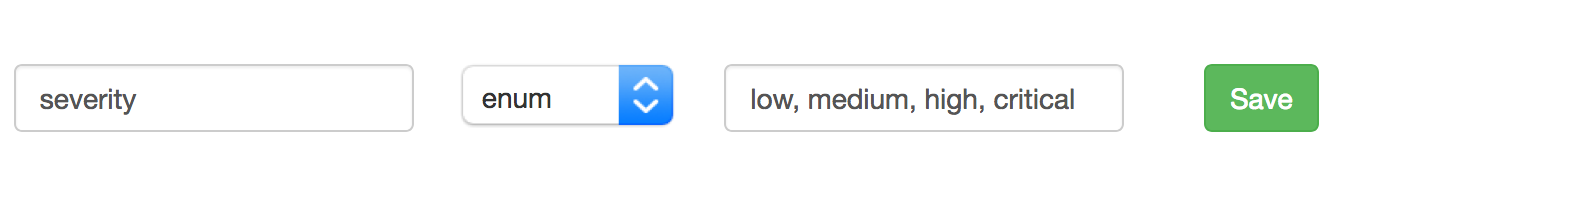
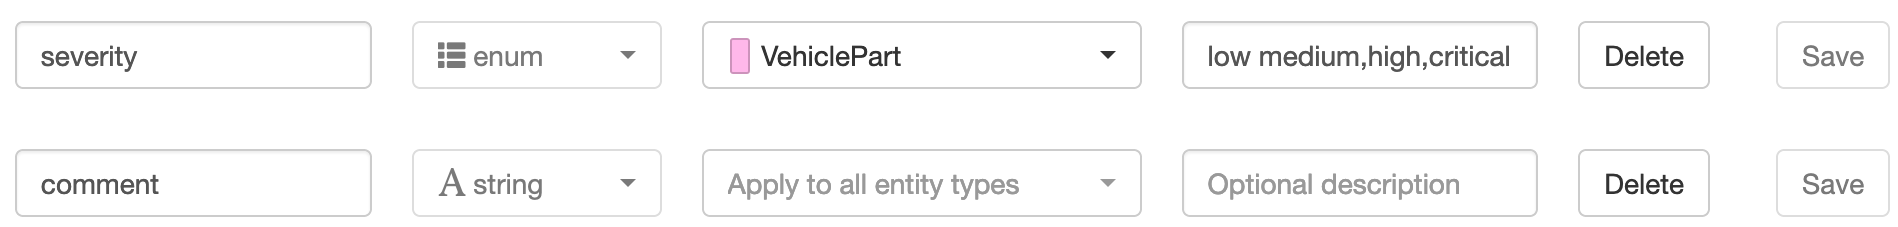
Add new doc for entity labels, info related to folders and update some pictures

diff --git a/_layouts/index.html b/_layouts/index.html
@@ -19,6 +19,7 @@ id: introduction
       <p>Use the text annotation editor to quickly annotate and normalize entities, relations and <a title="tagtog-docs: type of annotations" href="/webeditor.html#annotation-types">more</a>. If you just need to annotate at document level, you can use labels to tag documents. The <strong>user interface adapts automatically so you only see what you need</strong>. No more complex or non-intuitive annotating systems/interfaces, engage your domain experts from the very beginning.</p>
       <p>Too much work for a single person? <a href="#team-collaboration">Invite others and work in group</a>. Each annotator can annotate the same text to facilitate the review process. Once the annotations are completed, you can export them to JSON format.</p>
       {% include image.html name="annotation_editor.png" caption="Named Entity Recognition with tagtog annotation editor" %}
+      {% include image.html name="editor-mainview-described.jpg" caption="Editor layout. In this examples there are entities, entity labels, document labels, relations and normalizations" %}
       <p>Not fast enough? Use automatic annotations to speed up annotator tasks. Use trained models or customize your own. Users will see the automatic annotations and just make an action when predictions are wrong. Powered by <strong>NLP</strong> and <strong>active learning</strong> algorithms, tagtog uses the corrections to improve accuracy and <strong>continuously reduce the load of annotators' work</strong>.</p>
       <p>Do you need to deal with <strong>PDFs</strong>? {% include inline-image.html name="icon-pdf.png" width="30" %} Use the <a title="tagtog - PDF annotation tool" href="pdf-annotation-tool.html">PDF Annotation tool</a> to annotate native PDFs within tagtog.</p>
       {% include image.html name="pdf-annotation.jpg"  caption="Annotate PDF natively, as they are and the way your team is used to work with them " %}
@@ -146,7 +147,7 @@ id: introduction
           </tr>
           <tr>
             <td>Entity label</td>
-            <td>Label (boolean, string, enum) assigned to a named entity. Let's say you are extracting technical issues from reports in a CRM. When annotating those reports, you can add extra information to those entities (technical issues), for example, the severity for each of them.</td>
+            <td><p>Attribute (boolean, string, enum) assigned to a named entity. Let's say you are extracting technical issues from reports in a CRM. When annotating those reports, you can add extra information to those entities (technical issues), for example, the severity for each of them.</p><p>Entity labels can be used with specific entity groups (e.g. only can be set for technical issues) or to all entities (e.g. we can set comments for all entities)</p></td>
           </tr>
           <tr>
             <td>Relation</td>

diff --git a/webeditor.md b/webeditor.md
@@ -13,7 +13,7 @@ toc: true
     <p>The annotation editor is used to <strong>manually annotate text</strong> or/and <strong>train a machine learning model to automatically annotate text</strong>. By enabling automatic annotations you can build <a href="/#what-can-you-achieve">awesome stuff</a> you didn't think of at first.</p>
     <p>This web editor includes features as automatic annotations, <a href="https://medium.com/@tagtog/overlapping-text-annotations-19d7ac5b247a" title="Medium - Overlapping text annotations, gain flexibility">overlapping text annotations</a> or support for full-text articles, that reduce significantly the time required to annotate text.</p>
 
-    {% include image.html name="editor-mainview-described.PNG" caption="tagtog annotation editor with text span annotations and document labels. The editor is mainly divided into: Document area, Toolbar and Sidebar. "%}
+    {% include image.html name="editor-mainview-described.jpg" caption="tagtog annotation editor with text span annotations, entity labels, normalizations and document labels. The editor is mainly divided into: Document area, Folders, Toolbar and Sidebar. "%}
   </div>
   <div class="one-third-col">
     {% include image.html name="robot.ann.svg" width=300 %}
@@ -335,12 +335,20 @@ toc: true
         There are hotkeys available: <kbd>[</kbd> for previous document, <kbd>]</kbd> for next document.
       </div>
     </div>
+    <div class="two-third-col">
+      <br/>
+      <h4>Page navigator</h4>
+      <p>If the document is paginated, the toolbar has a controller to navigate across the pages. For example, in PDF documents. <a title="PDF annotation tool" href="pdf-annotation-tool.html#document-navigation">More information</a>.</p>
+    </div>
+    <div class="one-third-col">
+    </div>
   </div>
   <div class="page-subsection">
     <div class="two-third-col">
       <br/>
       <h2>Sidebar</h2>
-      <p>The sidebar appearance changes depending on how you configured your project. It will only display those actionable items for those entity types used in the project.</p>
+      <p>The sidebar <strong>appearance changes depending on how you configured your project</strong>. It will only display those actionable items for those entity types, document labels or relations used in the project.</p>
+      <p>You can <strong>show/hide</strong> the sidebar by clicking on the arrow (V-shaped mark) {% include inline-image.html name="chevron.png" width="20" %} near the top of the sidebar.</p>
       <p>These are the components you can find in the sidebar:</p>
     </div>
     <div class="one-third-col">
@@ -408,6 +416,15 @@ toc: true
         If you click in a relation, the document area <strong>scroll to highlight the entities related</strong> in the text.
       </div>
       {% include image.html name="editor-relation-tally.PNG" width="230" %}
+    </div>
+  </div>
+  <div class="page-subsection">
+    <div class="two-third-col">
+      <br/>
+      <h2>Folders</h2>
+      <p>Folders can be accessed from the document pool or the web editor. You can find the folders panel of the left side of the editor. <a title="Folders - tagtog.net" href="documentpool.html#folders">More information about folders</a>.</p>
+    </div>
+    <div class="one-third-col">
     </div>
   </div>
 </div>

diff --git a/projects.md b/projects.md
@@ -75,7 +75,7 @@ id: projects
         <strong>Accessibility tip</strong>: use colors that are easy to distinguish. Keep in mind color blind users.
       </div>
       <div class="message">
-        The name for an Entity type should contain only letters, numbers, or underscores, and must start with a letter. Minimum length: 3 characters. Maximum length: 24 characters.
+        The name for an Entity type should contain only letters, numbers, or underscores, and must start with a letter. Minimum length: 2 characters. Maximum length: 24 characters.
       </div>
     </div>
     <div class="two-third-col">
@@ -186,8 +186,8 @@ id: projects
   <div class="page-subsection">
     <div class="two-third-col">
       <h4>Entity labels</h4>
-      <p>Labels used to add attributes to existing entities. You can add one or more entity labels to a specific entity.</p>
-      <p>To create a new Entity Label, click on the button <code>New Document Label</code>. Then, write a <code>name</code> for the label (required), <code>type</code> (required) and <code>description</code> (optional).</p>
+      <p>Labels used to add attributes to existing entities. It is usual some attributes make sense only to some entity types (e.g. gender for person, not for city), you can assign an entity label to one specific entity type or all entity types.</p>
+      <p>To create a new Entity Label, click on the button <code>New Document Label</code>. Then, write a <code>name</code> for the label (required), <code>type</code> (required), <code>entity type</code> you want to assign the label to (required), and a <code>description</code> (optional).</p>
       <p>You can create different types of Entity Labels:</p>
       <table style="width:100%">
         <tr>
@@ -213,8 +213,9 @@ id: projects
       {% include message.html message="The name for an Entity Label should contain only letters, numbers, or underscores, and must start with a letter. Minimum length: 3 characters. Maximum length: 24 characters." %}
     </div>
     <div class="two-third-col">
-      {% include image.html name="settings-entitylabel.PNG" caption="Setting an entity label with the <code>enum</code> type"%}
-      <p>Once saved, you can start using them on the web editor.</p>
+      {% include image.html name="settings-entitylabel.PNG" caption="Setting two entity labels. The first with the <code>enum</code> type can be only set for entities with the type <code>VehiclePart</code>. The second with the <code>string</code> type can be set for all entity types. "%}
+      <p><strong>By default, the new entity labels will be assigned to all entity types</strong>. Otherwise, you can choose or filter an entity type from the list of entity types.</p>
+      <p>Once saved, you can start using them on the web editor. When you add a label to an entity, <strong>remember that only those labels related to the entity type of the entity will show</strong>.</p>
       <p>Soon you will be able to generate entity labels automatically within tagtog.</p>
     </div>
     <div class="one-third-col">

diff --git a/pdf-annotation-tool.md b/pdf-annotation-tool.md
@@ -37,7 +37,7 @@ toc: true
   </div>
   <div class="two-third-col">
     <h3>Document navigation</h3>
-    <p>You can navigate by clicking on the arrows on the top left corner of the document view. {% include inline-image.html name="pdf-navigation.png" width="100" %} If you want to go to a specific page, just write the page number in the page text box and press enter <kbd>↵</kbd>.</p>
+    <p>You can navigate by clicking on the arrows on the toolbar. {% include inline-image.html name="pdf-navigation.png" width="100" %} If you want to go to a specific page, just write the page number in the page text box and press enter <kbd>↵</kbd>. The page navigation will float when you scroll down a document to allow you change the page at any moment.</p>
   </div>
   <div class="one-third-col">
 

diff --git a/documentpool.md b/documentpool.md
@@ -8,6 +8,7 @@ toc: true
 
 <div class="two-third-col">
   <p>Your <strong>documents are stored in folders</strong>. Folders are paginated and you can move to the next or previous page using the navigation menu.</p>
+  <p>Folder list is expanded by default.</p>
   <h3>Folders</h3>
   <p>Use folders to organize your documents better. The <strong>root is the <code>pool</code> folder</strong>, which is created by default with each new project.</p>
   <h4>Create a new folder</h4>
